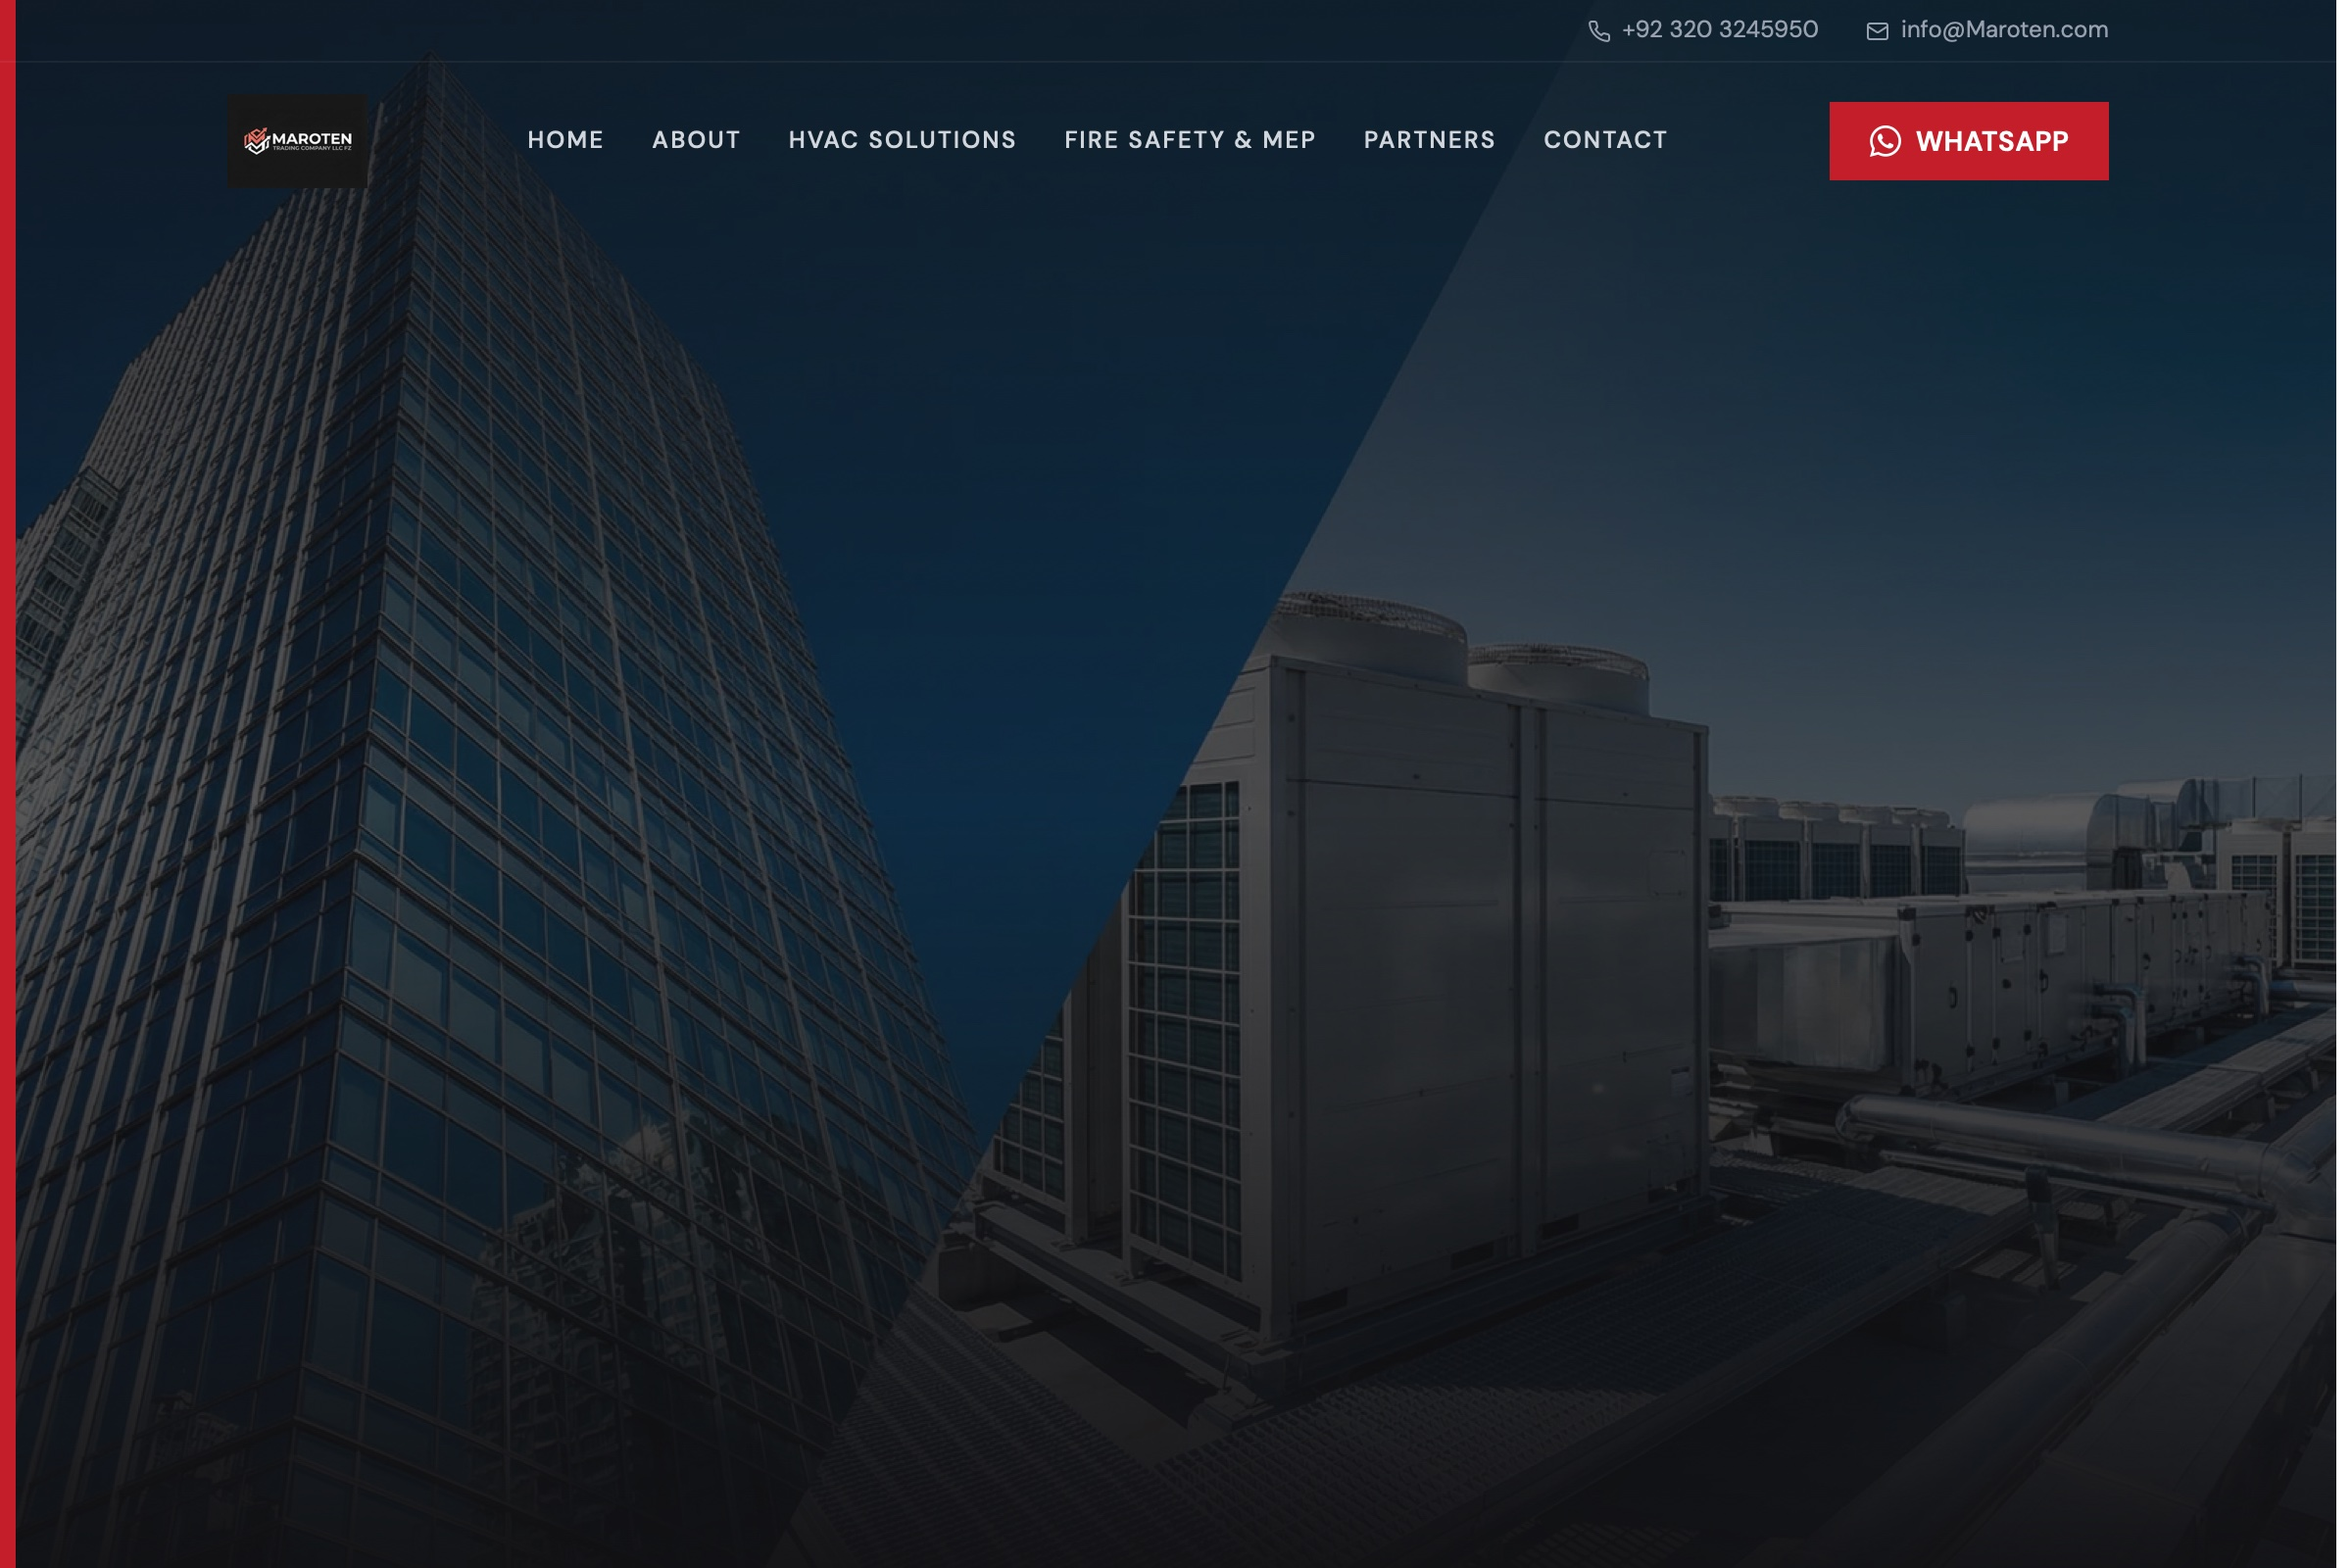
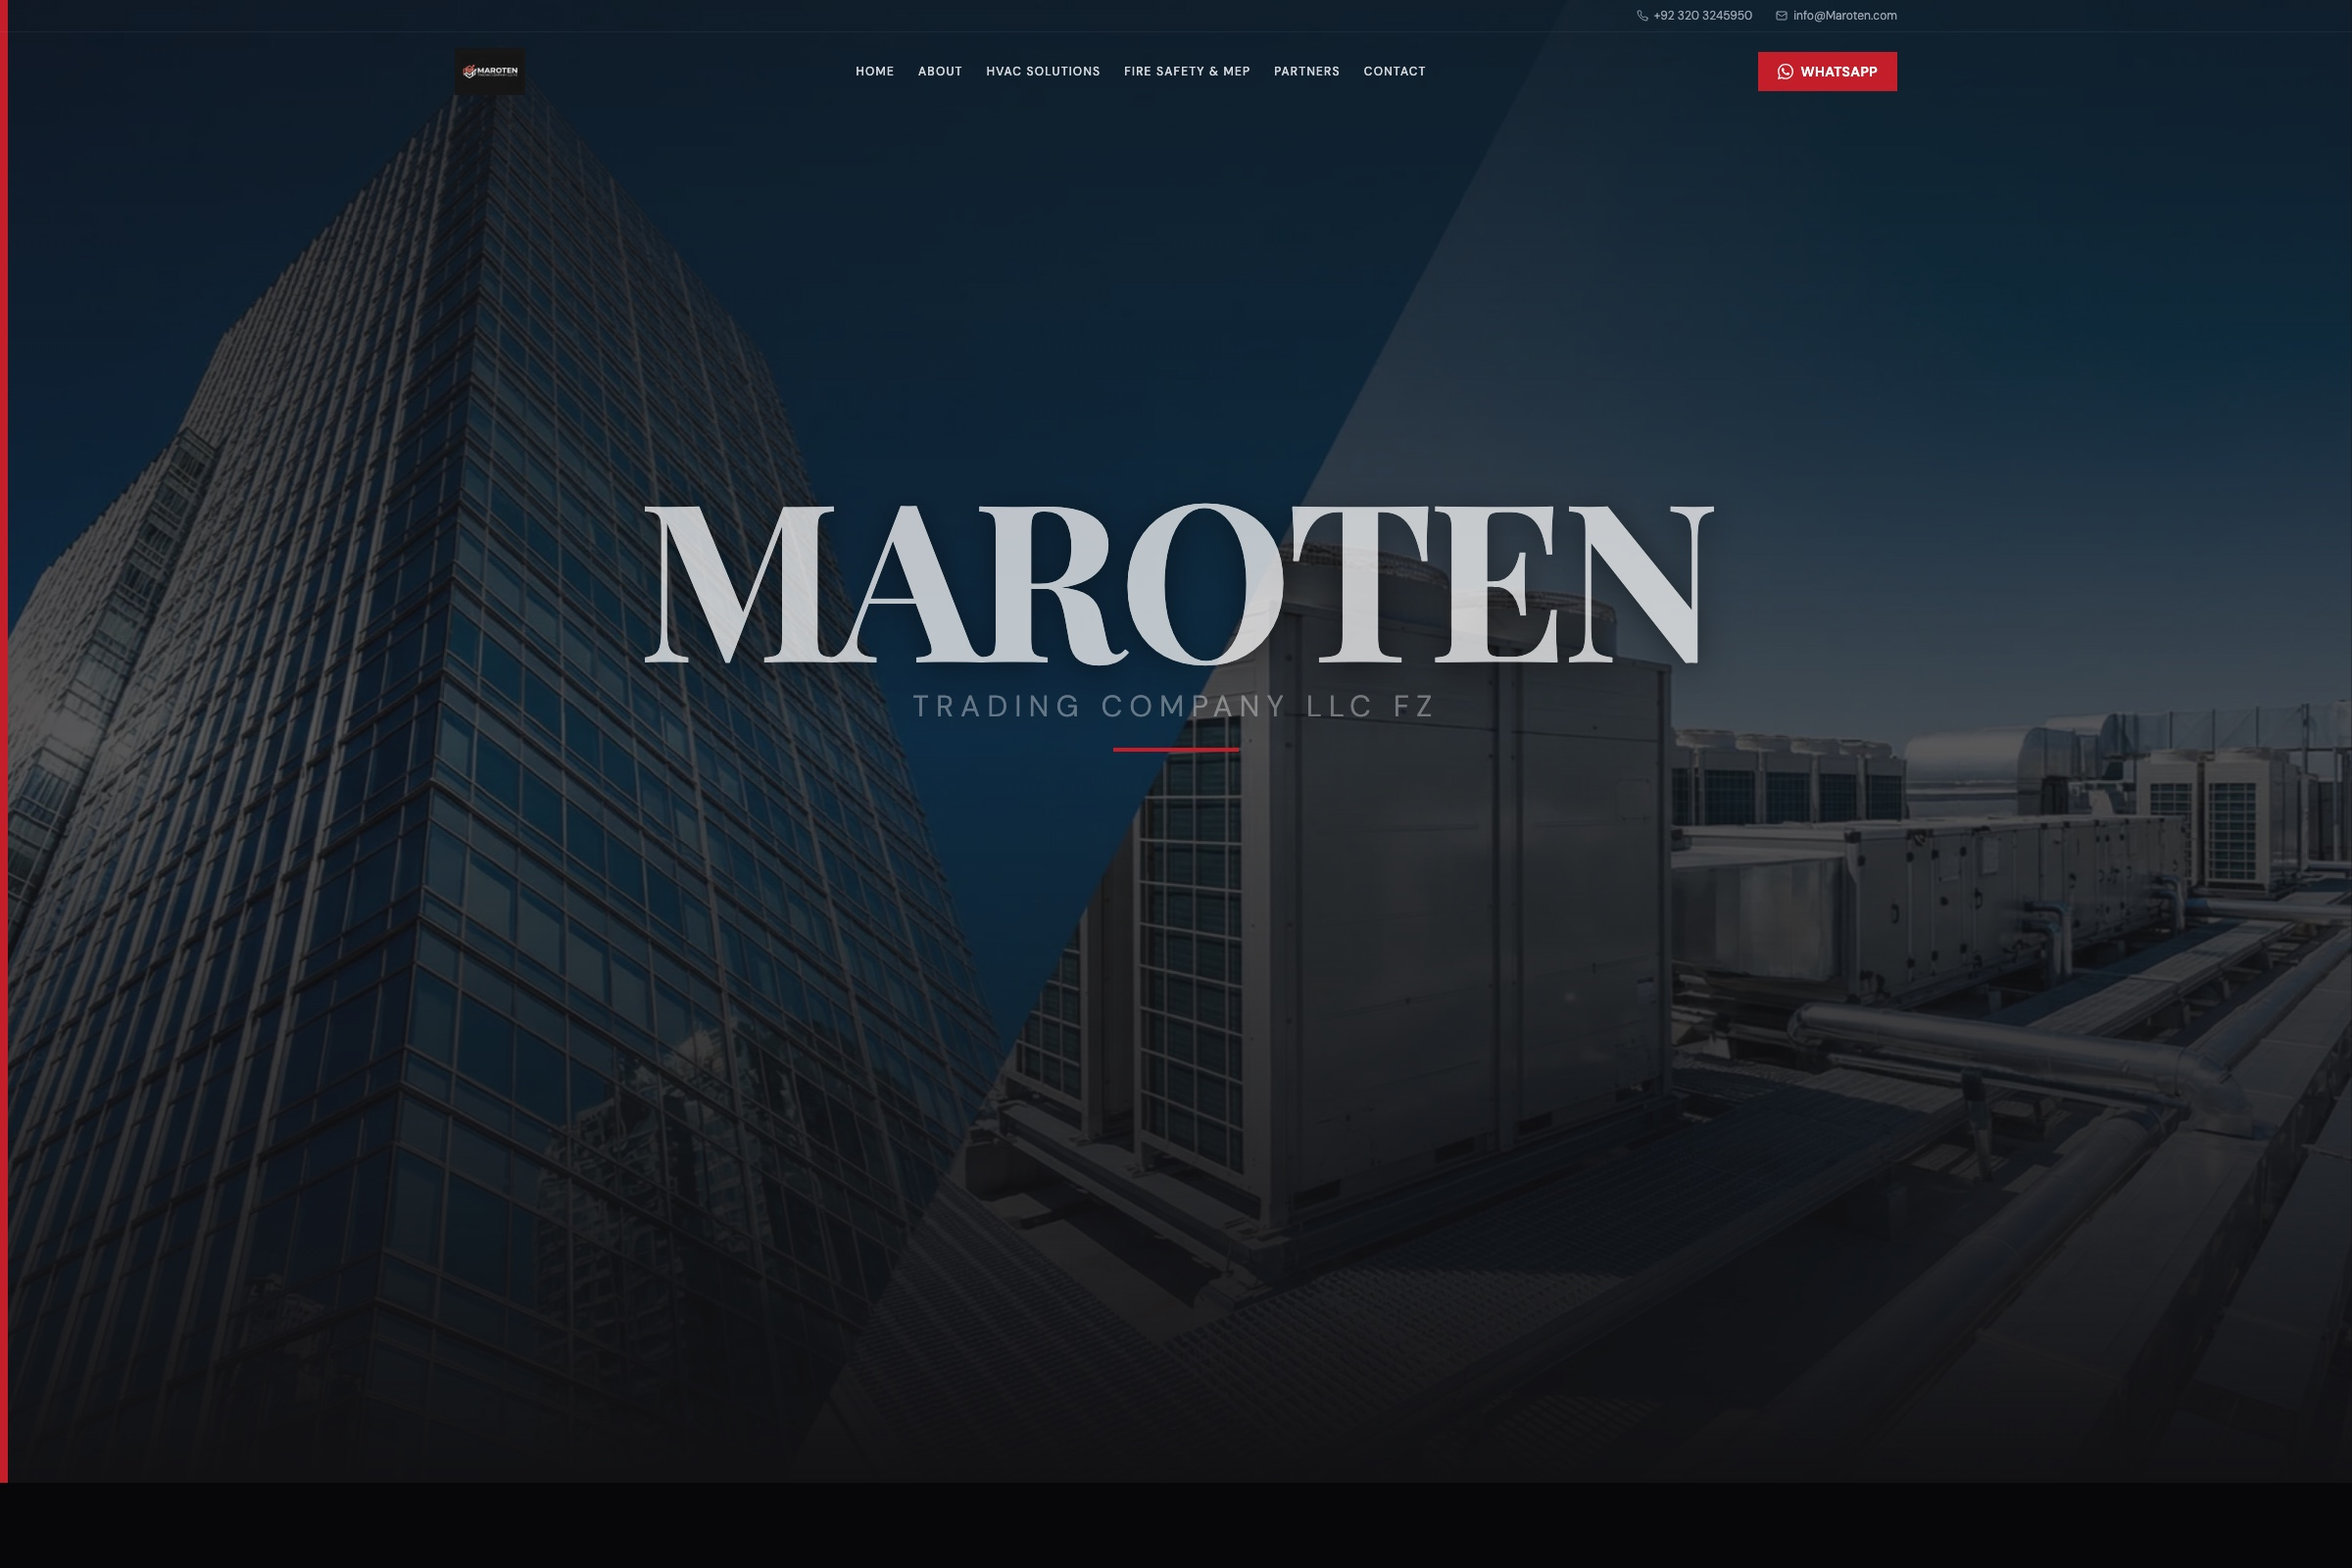
Update Maroten case study: real React/Vite/GH Pages stack + fresh screenshot
- pages/tech/maroten.html: replaced placeholder HTML5/vanilla-JS description
  with the actual stack (React 19 + TS, Vite 7, Tailwind 4, shadcn/Radix,
  framer-motion, GitHub Pages on maroten.com)
- portfolio-thumbs/maroten.jpg: fresh 2400x1600 capture of the live site

diff --git a/pages/tech/maroten.html b/pages/tech/maroten.html
@@ -72,15 +72,17 @@
   <div class="t-section-inner">
     <div class="t-section-label">Technology Stack</div>
     <h2>Built with the <em>essentials</em></h2>
-    <p class="t-section-lead">HTML5, custom CSS with deep red + dark steel palette to match the industrial product set. Vanilla JavaScript for the brand carousel &amp; WhatsApp inquiry button. Hosted on a custom domain with CDN.</p>
+    <p class="t-section-lead">React 19 + TypeScript on Vite 7, styled with Tailwind 4 and Radix/shadcn primitives. Deep red + dark steel palette to match the industrial product set, with framer-motion for the partner carousel and section reveals. Static build deployed to GitHub Pages on the maroten.com custom domain.</p>
 
     <div class="tech-grid">
-      <div class="tech-card"><div class="tech-card-tag">Frontend</div><div class="tech-card-name">HTML5 + custom CSS</div><div class="tech-card-desc">Heavy industrial palette (dark steel + accent red), no UI framework.</div></div>
-      <div class="tech-card"><div class="tech-card-tag">Interactions</div><div class="tech-card-name">Vanilla JavaScript</div><div class="tech-card-desc">Brand carousel, smooth scroll, WhatsApp deep-link handler.</div></div>
-      <div class="tech-card"><div class="tech-card-tag">Typography</div><div class="tech-card-name">Google Fonts</div><div class="tech-card-desc">Playfair Display for hero wordmark, Inter for body &mdash; readable on technical PDFs.</div></div>
-      <div class="tech-card"><div class="tech-card-tag">Hosting</div><div class="tech-card-name">Custom Domain + CDN</div><div class="tech-card-desc">maroten.com via CDN &mdash; instant load on UAE 4G/5G mobile.</div></div>
-      <div class="tech-card"><div class="tech-card-tag">Forms / Conversion</div><div class="tech-card-name">Quote Forms + WhatsApp</div><div class="tech-card-desc">Lead form pre-fills the product enquiry; WhatsApp shortcut for instant chat.</div></div>
-      <div class="tech-card"><div class="tech-card-tag">SEO</div><div class="tech-card-name">Schema.org + OG</div><div class="tech-card-desc">Organization schema + Open Graph for Google Maps &amp; LinkedIn previews.</div></div>
+      <div class="tech-card"><div class="tech-card-tag">Frontend</div><div class="tech-card-name">React 19 + TypeScript</div><div class="tech-card-desc">Component-driven SPA &mdash; routed with wouter, type-safe end-to-end.</div></div>
+      <div class="tech-card"><div class="tech-card-tag">Build</div><div class="tech-card-name">Vite 7</div><div class="tech-card-desc">Sub-second HMR in dev, ~225 KB gzipped JS bundle in prod.</div></div>
+      <div class="tech-card"><div class="tech-card-tag">Styling</div><div class="tech-card-name">Tailwind 4 + shadcn/Radix</div><div class="tech-card-desc">Industrial dark palette (#111113 + #C41E2A) on accessible Radix primitives.</div></div>
+      <div class="tech-card"><div class="tech-card-tag">Motion</div><div class="tech-card-name">framer-motion</div><div class="tech-card-desc">Partner-logo carousel, scroll-reveal sections, WhatsApp button micro-interactions.</div></div>
+      <div class="tech-card"><div class="tech-card-tag">Typography</div><div class="tech-card-name">Google Fonts</div><div class="tech-card-desc">Playfair Display for headlines, DM Sans for body, JetBrains Mono for spec callouts.</div></div>
+      <div class="tech-card"><div class="tech-card-tag">Hosting</div><div class="tech-card-name">GitHub Pages</div><div class="tech-card-desc">Auto-deploy via GitHub Actions on every push. Fastly edge (185.199.x.x), free Let&rsquo;s Encrypt SSL.</div></div>
+      <div class="tech-card"><div class="tech-card-tag">Forms / Conversion</div><div class="tech-card-name">WhatsApp + Digital Card</div><div class="tech-card-desc">Sticky WhatsApp deep-link, plus a /card route with tap-to-call, email and .vcf save-to-contacts.</div></div>
+      <div class="tech-card"><div class="tech-card-tag">SEO</div><div class="tech-card-name">Schema.org + OG</div><div class="tech-card-desc">Organization schema + Open Graph for Google &amp; LinkedIn previews.</div></div>
     </div>
   </div>
 </section>
@@ -95,14 +97,14 @@
       <div class="build-step"><h4>Brief &amp; competitor scan</h4><p>Capture the company story, target customer, services &amp; competitive landscape.</p></div>
       <div class="build-step"><h4>Content &amp; copy extraction</h4><p>Convert existing brand assets, brochures &amp; messaging into web-ready copy &amp; imagery.</p></div>
       <div class="build-step"><h4>Design tokens &amp; system</h4><p>Establish colour palette, typography scale &amp; spacing rhythm before writing HTML.</p></div>
-      <div class="build-step"><h4>Build &amp; mobile-first responsive</h4><p>Hand-coded with mobile-first breakpoints. Tested on real devices.</p></div>
-      <div class="build-step"><h4>Deploy &amp; analytics</h4><p>Push to production with CDN, custom domain, SSL &amp; Google Analytics 4.</p></div>
+      <div class="build-step"><h4>Component build &amp; mobile-first responsive</h4><p>Section components in React + Tailwind with mobile-first breakpoints. Tested on real devices.</p></div>
+      <div class="build-step"><h4>Deploy &amp; analytics</h4><p>Push to GitHub &mdash; Actions builds &amp; publishes to Pages on the maroten.com custom domain with auto-renewing SSL.</p></div>
     </div>
 
     <div class="stats-row">
       <div><div class="stat-num">5 days</div><div class="stat-label">Build Time</div></div>
-      <div><div class="stat-num">0</div><div class="stat-label">Frameworks</div></div>
-      <div><div class="stat-num">100<em>%</em></div><div class="stat-label">Hand-Coded</div></div>
+      <div><div class="stat-num">React<em> 19</em></div><div class="stat-label">Frontend</div></div>
+      <div><div class="stat-num">~225<em>KB</em></div><div class="stat-label">JS gzipped</div></div>
       <div><div class="stat-num">A<em>+</em></div><div class="stat-label">Lighthouse</div></div>
     </div>
   </div>
